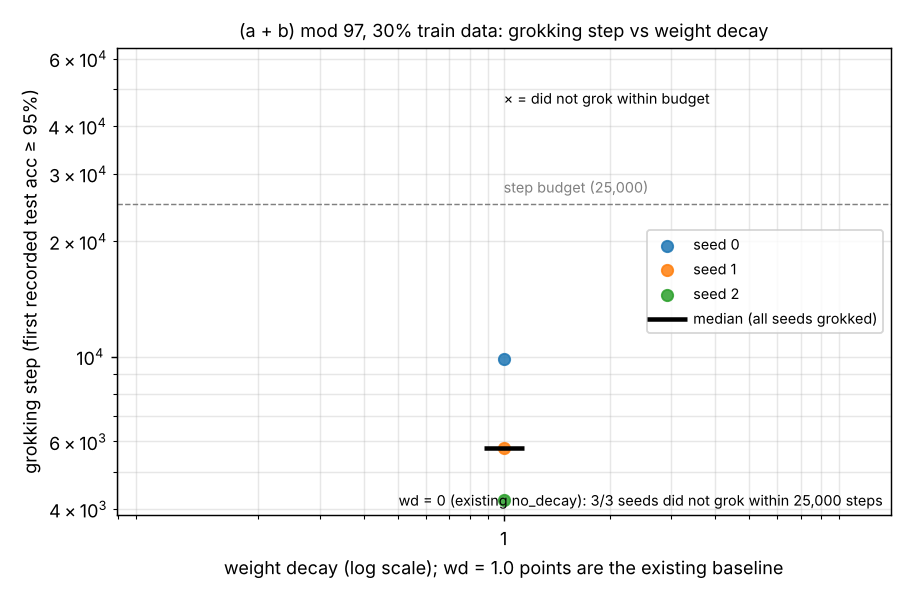
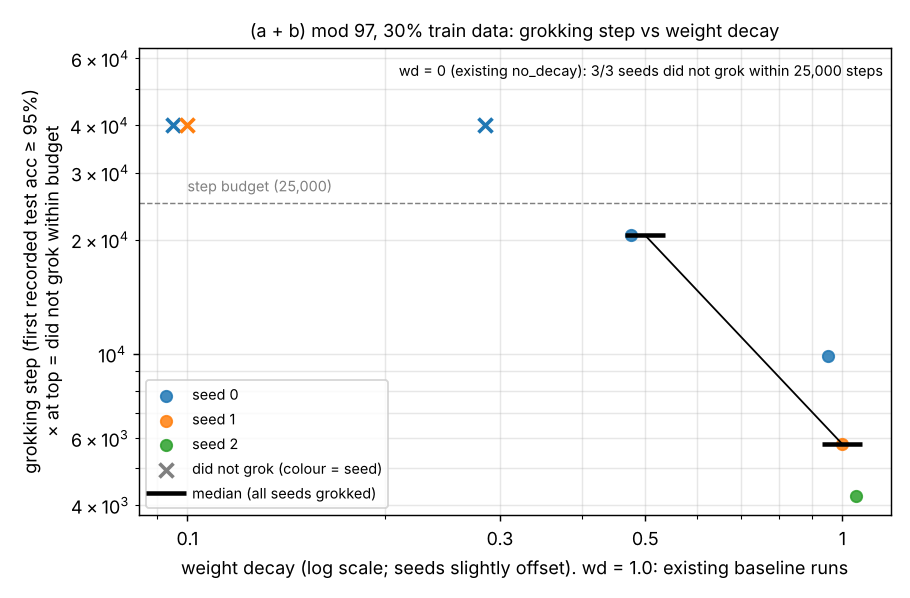
WD sweep: partial results (4 of 8 runs)
Claude-Session: https://claude.ai/code/session_01NWdGKpYhbWfxSQbGqi1kZf

diff --git a/notes/wd_sweep.py b/notes/wd_sweep.py
@@ -90,13 +90,17 @@ def plot(rows, png):
     top = budget * 1.6  # band above the budget for "did not grok"
     fig, ax = plt.subplots(figsize=(7, 4.6))
     colors = {0: "#1f77b4", 1: "#ff7f0e", 2: "#2ca02c"}
+    def jx(r):  # small multiplicative x-jitter per seed so coincident points stay visible
+        return r["weight_decay"] * (1 + 0.05 * (r["seed"] - 1))
+
     for seed in sorted({r["seed"] for r in pos}):
         g = [r for r in pos if r["seed"] == seed and r["grokked"]]
         n = [r for r in pos if r["seed"] == seed and not r["grokked"]]
-        ax.scatter([r["weight_decay"] for r in g], [r["grok_step"] for r in g], color=colors[seed],
+        ax.scatter([jx(r) for r in g], [r["grok_step"] for r in g], color=colors[seed],
                    s=40, zorder=3, label=f"seed {seed}", alpha=0.85)
-        ax.scatter([r["weight_decay"] for r in n], [top] * len(n), color=colors[seed], marker="x",
+        ax.scatter([jx(r) for r in n], [top] * len(n), color=colors[seed], marker="x",
                    s=60, zorder=3, linewidths=2)
+    ax.scatter([], [], color="grey", marker="x", s=60, linewidths=2, label="did not grok (colour = seed)")
     wds = sorted({r["weight_decay"] for r in pos})
     med_x, med_y = [], []
     for wd in wds:
@@ -108,20 +112,19 @@ def plot(rows, png):
             label="median (all seeds grokked)")
     ax.axhline(budget, color="grey", lw=0.8, ls="--")
     ax.text(wds[0], budget * 1.05, f"step budget ({budget:,})", fontsize=8, color="grey", va="bottom")
-    ax.text(wds[0], top * 1.12, "× = did not grok within budget", fontsize=8, va="bottom")
     nd = [r for r in rows if r["weight_decay"] == 0]
-    ax.text(0.99, 0.02, f"wd = 0 (existing no_decay): {sum(not r['grokked'] for r in nd)}/{len(nd)} "
-            f"seeds did not grok within {budget:,} steps", transform=ax.transAxes, ha="right", fontsize=8)
+    ax.text(0.99, 0.97, f"wd = 0 (existing no_decay): {sum(not r['grokked'] for r in nd)}/{len(nd)} "
+            f"seeds did not grok within {budget:,} steps", transform=ax.transAxes, ha="right", va="top", fontsize=8)
     ax.set_xscale("log")
     ax.set_yscale("log")
     ax.set_ylim(top=top * 1.6)
     ax.set_xticks(wds)
     ax.set_xticklabels([f"{w:g}" for w in wds])
-    ax.set_xlabel("weight decay (log scale); wd = 1.0 points are the existing baseline")
-    ax.set_ylabel("grokking step (first recorded test acc ≥ 95%)")
+    ax.set_xlabel("weight decay (log scale; seeds slightly offset). wd = 1.0: existing baseline runs")
+    ax.set_ylabel("grokking step (first recorded test acc ≥ 95%)\n× at top = did not grok within budget")
     ax.set_title("(a + b) mod 97, 30% train data: grokking step vs weight decay", fontsize=10)
     ax.grid(alpha=0.3, which="both")
-    ax.legend(fontsize=8, loc="center right")
+    ax.legend(fontsize=8, loc="lower left")
     fig.tight_layout()
     fig.savefig(png, dpi=130)
 

diff --git a/notes/wd_sweep.md b/notes/wd_sweep.md
@@ -1,0 +1,16 @@
+# Weight-decay sweep (partial: 4 of 8 runs)
+
+**Status:** partial results. Wave 2 (wd 0.3 and 0.5 seed 1, wd 0.03 seeds 0 and 1) is still training. The full write-up replaces this file.
+
+| weight decay | seed | source | grokking step (test acc ≥ 95%) | final train acc | final test acc |
+|---|---|---|---|---|---|
+| 0 | 0 | existing `no_decay` | did not grok within 25,000 steps | 100.00% | 3.02% |
+| 0 | 1 | existing `no_decay` | did not grok within 25,000 steps | 100.00% | 4.05% |
+| 0 | 2 | existing `no_decay` | did not grok within 25,000 steps | 100.00% | 4.33% |
+| 0.1 | 0 | sweep (this PR) | did not grok within 25,000 steps | 100.00% | 5.50% |
+| 0.1 | 1 | sweep (this PR) | did not grok within 25,000 steps | 100.00% | 8.11% |
+| 0.3 | 0 | sweep (this PR) | did not grok within 25,000 steps | 100.00% | 12.80% |
+| 0.5 | 0 | sweep (this PR) | 20,514 | 100.00% | 100.00% |
+| 1 | 0 | existing `baseline` | 9,868 | 100.00% | 100.00% |
+| 1 | 1 | existing `baseline` | 5,785 | 100.00% | 100.00% |
+| 1 | 2 | existing `baseline` | 4,216 | 100.00% | 100.00% |
